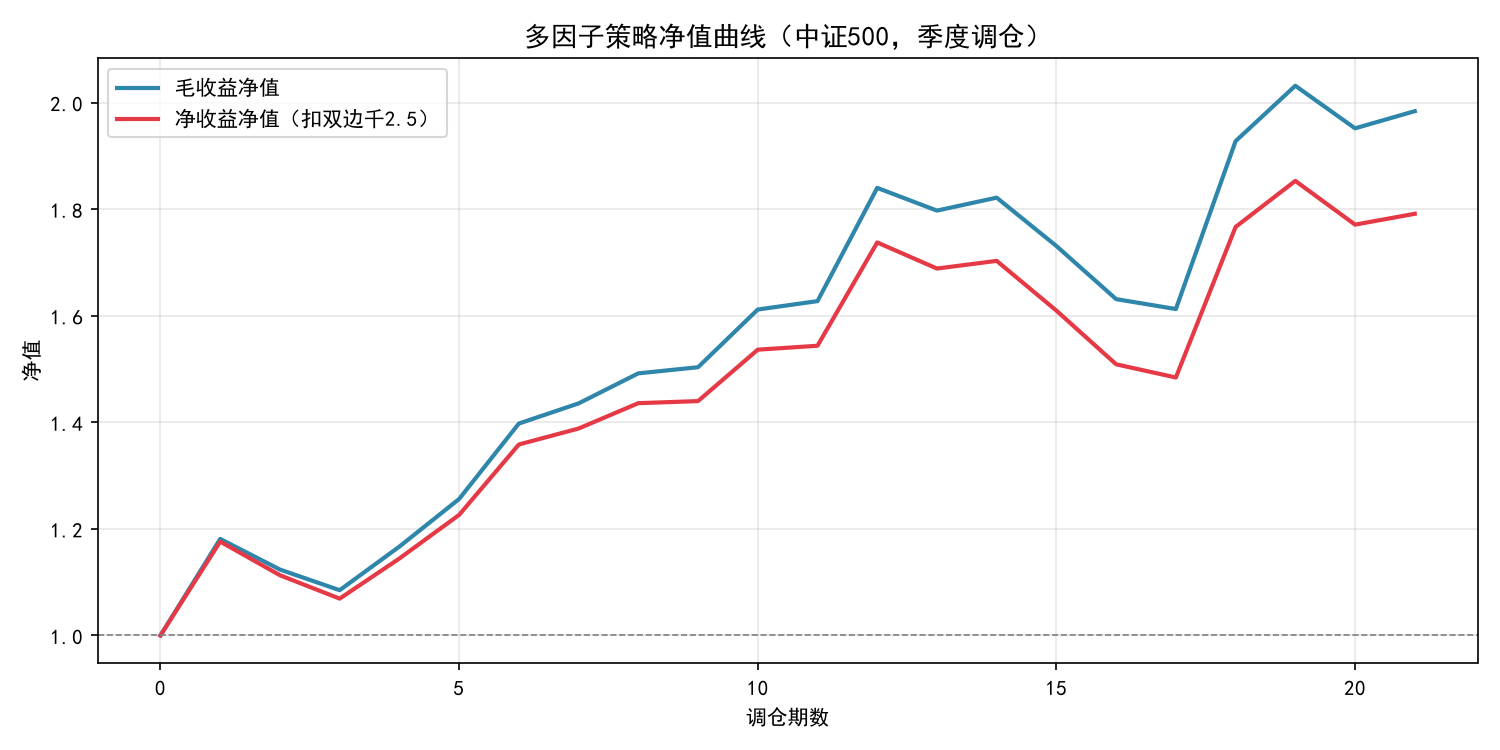
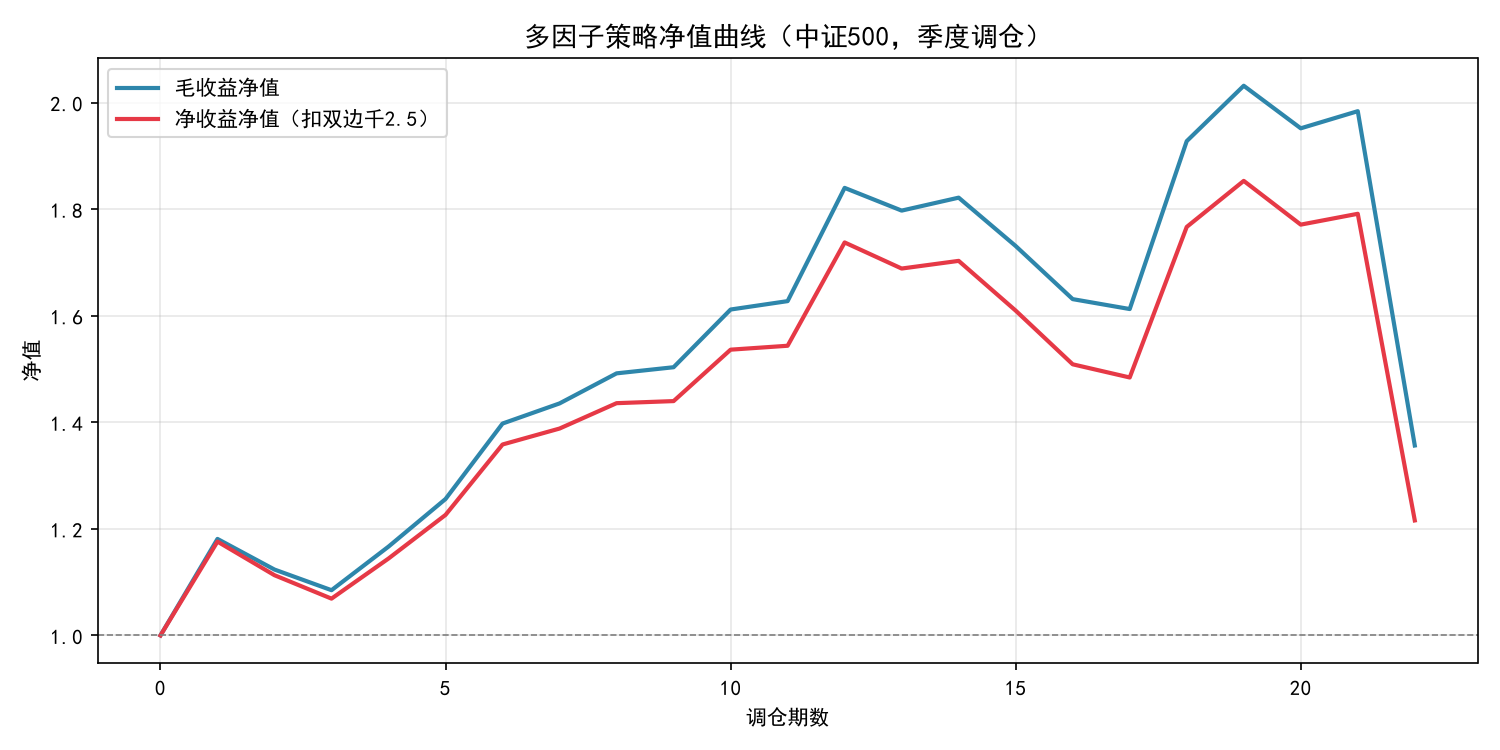
fix: 修复NaN估值与区间划分; docs: 补充Q3逼空风险归因

Changed region(s): [[0.184, 0.1227, 0.9507, 0.7973], [0.1227, 0.7053, 0.184, 0.7973], [0.4907, 0.8893, 0.5213, 0.92]]

diff --git a/backtest.py b/backtest.py
@@ -18,29 +18,36 @@ def calc_period_return(klines, rb_date, entry_date, exit_date):
     exit_date = pd.to_datetime(exit_date)
     
     for sym, df in klines.items():
-        # 确保股票在产生信号前有历史数据
         if not (df['date'] <= rb_date).any():
             continue
             
-        # 严格判定入场日：若当天停牌，视为未成交
+        # 1. 严格判定入场日：若当天停牌，视为未成交
         entry_row = df[df['date'] == entry_date]
-        if entry_row.empty:
+        if entry_row.empty or pd.isna(entry_row['open'].iloc[0]):
             rets[sym] = float('nan')
             continue
             
         open_t1 = entry_row['open'].iloc[0]
+        if open_t1 <= 0:
+            rets[sym] = float('nan')
+            continue
         
-        # 寻找退出日及之前最后一个有效收盘价
+        # 2. 获取退出日及之前的子集
         exit_sub = df[(df['date'] >= entry_date) & (df['date'] <= exit_date)]
         if exit_sub.empty:
             rets[sym] = float('nan')
             continue
             
-        close_end = exit_sub['close'].iloc[-1]
+        # 3. 剥离无效的 NaN 收盘价
+        valid_closes = exit_sub['close'].dropna()
+        valid_closes = valid_closes[valid_closes > 0]
         
-        if open_t1 > 0:
-            rets[sym] = close_end / open_t1 - 1
-        else:
+        if valid_closes.empty:
+            # 买入后到期末连一个有效收盘价都没有（极度异常数据），记 0 或不计入
             rets[sym] = float('nan')
+            continue
+            
+        close_end = valid_closes.iloc[-1]
+        rets[sym] = close_end / open_t1 - 1
             
     return rets

diff --git a/main.py b/main.py
@@ -114,10 +114,11 @@ def main():
             continue
         entry_date = future_dates[0]
         
+        # 用信号日来判断归属
         phase = 'all'
-        if pd.to_datetime(TRAIN_START) <= entry_date <= pd.to_datetime(TRAIN_END):
+        if pd.to_datetime(TRAIN_START) <= sig_date <= pd.to_datetime(TRAIN_END):
             phase = 'train'
-        elif pd.to_datetime(VALID_START) <= entry_date <= pd.to_datetime(VALID_END):
+        elif pd.to_datetime(VALID_START) <= sig_date <= pd.to_datetime(VALID_END):
             phase = 'valid'
             
         intervals.append({
